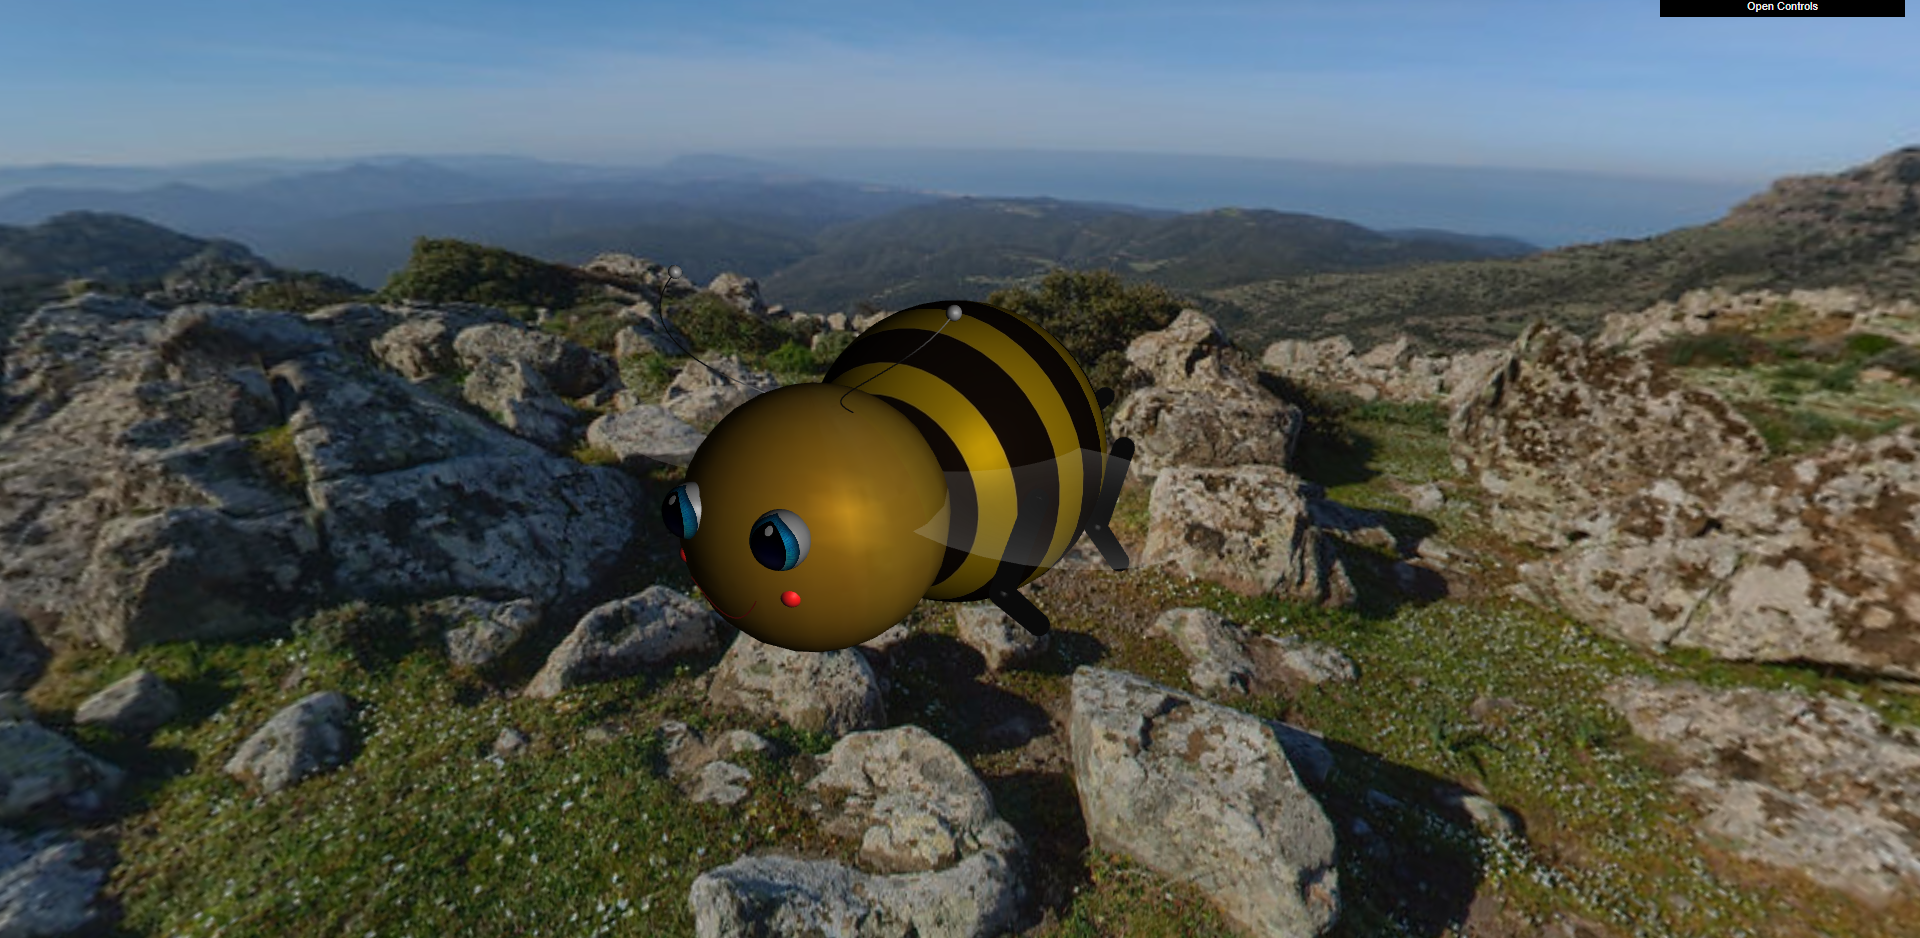
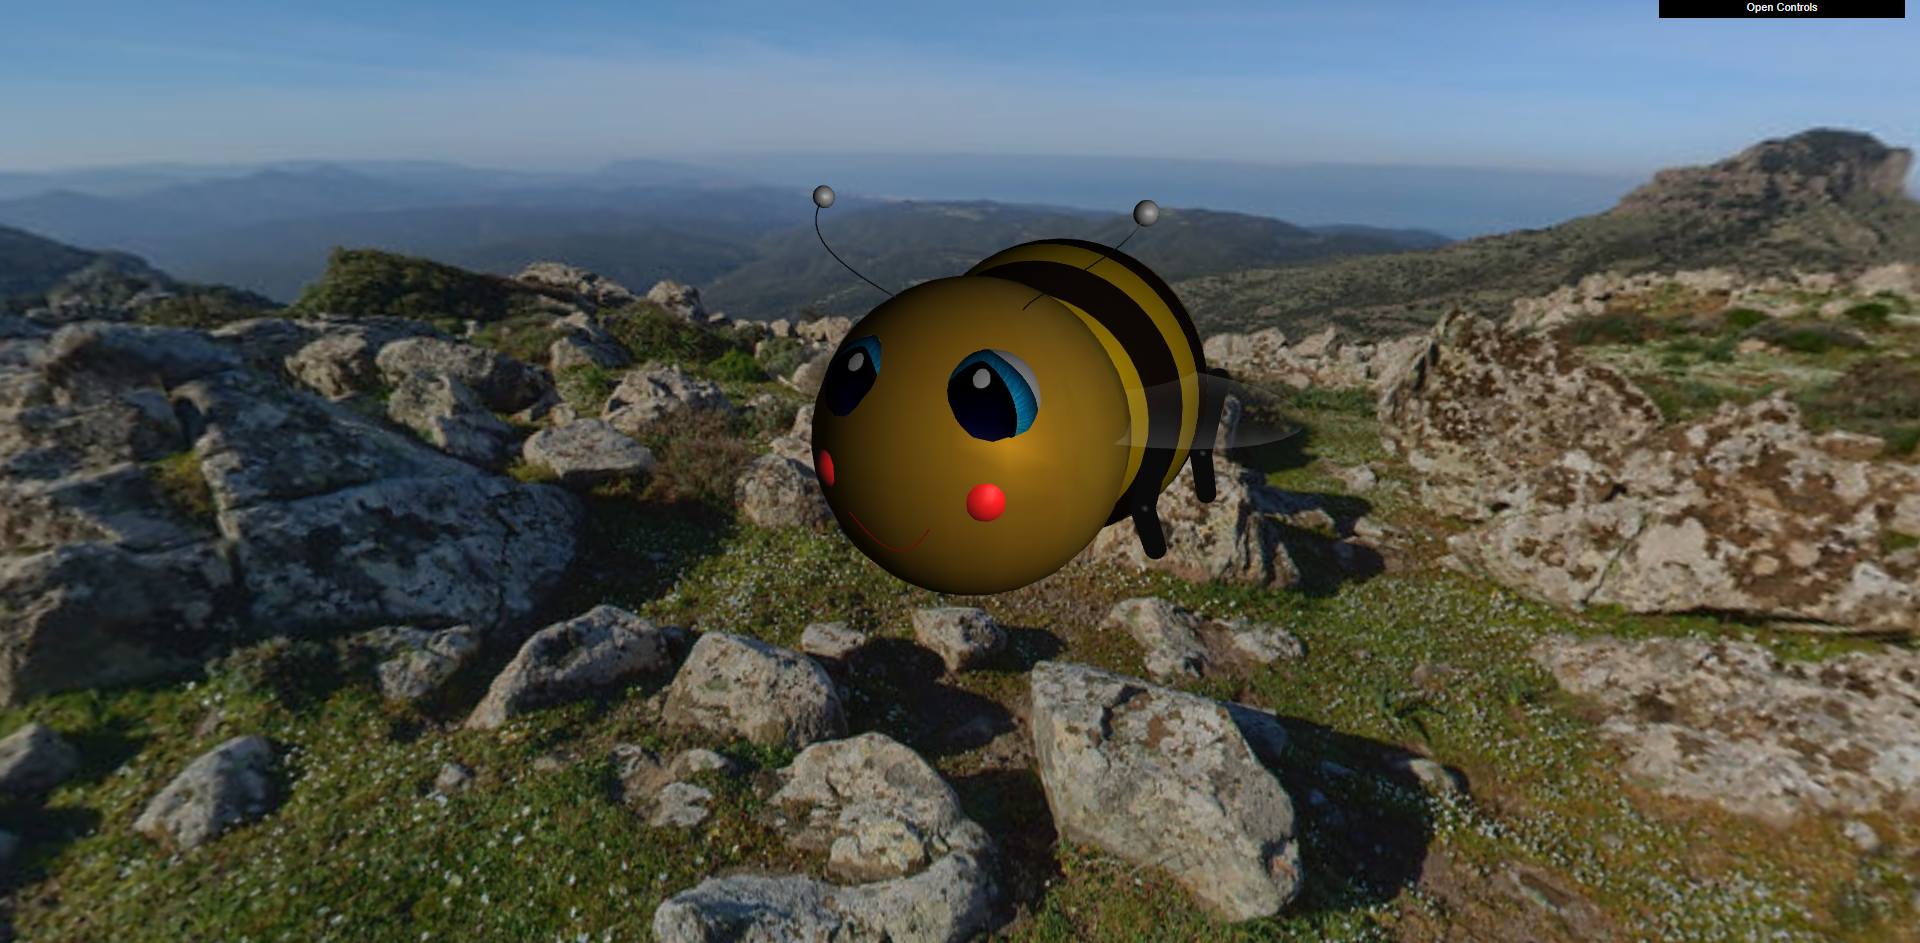
Bee wings and oscilation animation done. Bee modification

diff --git a/project/MyBee.js b/project/MyBee.js
@@ -21,11 +21,14 @@ export class MyBee extends CGFobject {
         this.beeArm2 = new MyBeeArm(this.scene);
         this.beeArm3 = new MyBeeArm(this.scene);
         this.beeArm4 = new MyBeeArm(this.scene);
+        this.oscilatingMove = 0;
+        this.wingAngle = 0;
+        this.time = 1000000;
     }
 
-    display(){
+    display() {
         this.scene.pushMatrix();
-        this.scene.translate(0, -1, -1);
+        this.scene.translate(0, -1, this.oscilatingMove-1);
         this.scene.rotate(-Math.PI / 2, 1, 0, 0);
         this.head.display();
         this.scene.popMatrix();
@@ -34,9 +37,8 @@ export class MyBee extends CGFobject {
         bobyAppearance.setTexture(this.bobyTexture);
         bobyAppearance.apply();
 
-
         this.scene.pushMatrix();
-        this.scene.translate(0, -11, 0);
+        this.scene.translate(0, -11, this.oscilatingMove);
         this.boby.display();
         this.scene.popMatrix();
 
@@ -52,7 +54,7 @@ export class MyBee extends CGFobject {
         ]
         
         this.scene.pushMatrix();
-        this.scene.translate(0, -17, 0);
+        this.scene.translate(0, -17, this.oscilatingMove);
         this.scene.multMatrix(rotecone);
         this.cone.display();
         this.scene.popMatrix();
@@ -68,49 +70,49 @@ export class MyBee extends CGFobject {
         this.scene.setDiffuse(0.0, 0.0, 0.0, 1.0);
         this.scene.pushMatrix();
         this.scene.multMatrix(rotLeg);
-        this.scene.translate(3, 0, 15);
+        this.scene.translate(3, this.oscilatingMove, 15);
         this.leg.display();
         this.scene.popMatrix();
         
         this.scene.pushMatrix();
         this.scene.multMatrix(rotLeg);
-        this.scene.translate(-3, 0, 15);
+        this.scene.translate(-3, this.oscilatingMove, 15);
         this.leg.display();
         this.scene.popMatrix();
 
         this.scene.pushMatrix();
-        this.scene.translate(3, -22, 0);
+        this.scene.translate(3, -22, this.oscilatingMove);
         this.foot.display();
         this.scene.popMatrix();
 
         this.scene.pushMatrix();
-        this.scene.translate(-3, -22, 0);
+        this.scene.translate(-3, -22, this.oscilatingMove);
         this.foot.display();
         this.scene.popMatrix();
 
         this.scene.pushMatrix();
-        this.scene.translate(-6, -7, 14);
+        this.scene.translate(-6, -7, this.oscilatingMove+14);
         this.scene.rotate(Math.PI / 2, 0, 1, 0);
         this.scene.rotate(Math.PI / 4, 0, 0, 1);
         this.beeArm1.display();
         this.scene.popMatrix();
 
         this.scene.pushMatrix();
-        this.scene.translate(6, -7, 14);
+        this.scene.translate(6, -7, this.oscilatingMove+14);
         this.scene.rotate(Math.PI / 2, 0, 1, 0);
         this.scene.rotate(Math.PI / 4, 0, 0, 1);
         this.beeArm2.display();
         this.scene.popMatrix();
 
         this.scene.pushMatrix();
-        this.scene.translate(-7, -14, 14);
+        this.scene.translate(-7, -14, this.oscilatingMove+14);
         this.scene.rotate(Math.PI / 2, 0, 1, 0);
         this.scene.rotate(Math.PI / 4, 0, 0, 1);
         this.beeArm3.display();
         this.scene.popMatrix();
 
         this.scene.pushMatrix();
-        this.scene.translate(7, -14, 14);
+        this.scene.translate(7, -14, this.oscilatingMove+14);
         this.scene.rotate(Math.PI / 2, 0, 1, 0);
         this.scene.rotate(Math.PI / 4, 0, 0, 1);
         this.beeArm4.display();
@@ -127,15 +129,37 @@ export class MyBee extends CGFobject {
 
         this.scene.pushMatrix();
         this.scene.setShininess(1.0);
-        this.scene.translate(7, -5, -2);
+        this.scene.translate(5, -5, this.oscilatingMove-2);
+        this.scene.rotate(this.wingAngle, 0, 1, 0);
         this.scene.scale(1.3, 1, 1);
         this.wing1.display();
         this.scene.popMatrix();
 
         this.scene.pushMatrix();
-        this.scene.translate(-7, -5, -2);
+        this.scene.translate(-5, -5, this.oscilatingMove-2);
+        this.scene.rotate(-this.wingAngle, 0, 1, 0);
         this.scene.scale(1.3, 1, 1);
         this.wing2.display();
         this.scene.popMatrix();
     }
+
+    updateBeeMovement(t) {
+        if (!this.startTime) {
+            this.startTime = t;
+        }
+    
+        let elapsedTime = t - this.startTime;
+    
+        let amplitude = 5; 
+        let frequency = 0.5;
+    
+        this.oscilatingMove = amplitude * Math.sin(2 * Math.PI * frequency * (elapsedTime / 1000));
+    
+        // Update the wing angle (if needed)
+        this.wingAngle = Math.sin(t * 0.05);
+    
+        console.log("New Y position:", this.oscilatingMove);
+        console.log("New wing angle:", this.wingAngle);
+    }
+    
 }

diff --git a/project/MyBeeHead.js b/project/MyBeeHead.js
@@ -6,18 +6,18 @@ import { MySmile } from "./MySmile.js";
 export class MyBeeHead extends CGFobject {
     constructor(scene){
         super(scene);
-        this.head = new MySphere(this.scene, 5, 20, 20);
+        this.head = new MySphere(this.scene, 6, 20, 20);
         this.headTexture = new CGFtexture(this.scene, 'images/bee/head.png');
-        this.eye1 = new MySphere(this.scene, 1, 20, 20);
-        this.eye2 = new MySphere(this.scene, 1, 20, 20);
+        this.eye1 = new MySphere(this.scene, 2, 20, 20);
+        this.eye2 = new MySphere(this.scene, 2, 20, 20);
         this.eyeTexture = new CGFtexture(this.scene, 'images/bee/eye.png');
         this.antenna1 = new MyAntenna(this.scene, 2, 20);
         this.antenna2 = new MyAntenna(this.scene, 2, 20);
-        this.antennaSphere1 = new MySphere(this.scene, 0.25, 20, 20);
-        this.antennaSphere2 = new MySphere(this.scene, 0.25, 20, 20);
+        this.antennaSphere1 = new MySphere(this.scene, 0.4, 20, 20);
+        this.antennaSphere2 = new MySphere(this.scene, 0.4, 20, 20);
         this.smile = new MySmile(this.scene, 5, 20);
-        this.smileSphere1 = new MySphere(this.scene, 0.4, 20, 20);
-        this.smileSphere2 = new MySphere(this.scene, 0.4, 20, 20);
+        this.smileSphere1 = new MySphere(this.scene, 1, 20, 20);
+        this.smileSphere2 = new MySphere(this.scene, 1, 20, 20);
     }
     display(){
         let headAppearance = new CGFappearance(this.scene);
@@ -54,13 +54,13 @@ export class MyBeeHead extends CGFobject {
         ]
 
         this.scene.pushMatrix();
-        this.scene.translate(-2, 1.5, 4.1);
+        this.scene.translate(-2, 2.5, 3.1);
         this.scene.multMatrix(roteye1);
         this.eye1.display();
         this.scene.popMatrix();
 
         this.scene.pushMatrix();
-        this.scene.translate(2, 1.5, 4.1);
+        this.scene.translate(2, 2.5, 3.1);
         this.scene.multMatrix(roteye2);
         this.eye2.display();
         this.scene.popMatrix();
@@ -93,21 +93,21 @@ export class MyBeeHead extends CGFobject {
         this.scene.setDiffuse(0.7, 0, 0, 1.0);
         this.scene.pushMatrix();
         this.scene.scale(5, 3.5, 5);
-        this.scene.translate(0.25, -0.2, 0.95);
+        this.scene.translate(0.25, -0.25, 1.2);
         this.scene.multMatrix(rotsmile);
         this.smile.display();
         this.scene.popMatrix();
 
         this.scene.setDiffuse(1, 0.1, 0.1, 1.0);
         this.scene.pushMatrix();
-        this.scene.translate(2.25, -0.5, 4.1);
+        this.scene.translate(2.5, 0, 4.5);
         this.scene.multMatrix(rotsmile);
         this.smileSphere1.display();
         this.scene.popMatrix();
 
         this.scene.setDiffuse(1, 0.1, 0.1, 1.0);
         this.scene.pushMatrix();
-        this.scene.translate(-2.75, -0.5, 3.8);
+        this.scene.translate(-3, 0, 4.25);
         this.scene.multMatrix(rotsmile);
         this.smileSphere2.display();
         this.scene.popMatrix();

diff --git a/project/MyScene.js b/project/MyScene.js
@@ -13,7 +13,6 @@ import { MyBeeHead } from "./MyBeeHead.js";
 import { MyBee } from "./MyBee.js";
 import { MyPolen } from "./MyPolen.js";
 
-
 /**
  * MyScene
  * @constructor
@@ -159,6 +158,20 @@ export class MyScene extends CGFscene {
     this.flower = new MyFlower(this, this.numPetals, this.radiusPetals, this.radiusCenter, this.radiusStem, this.heightStem, 
       this.customMaterialValues['Color Petals'], this.customMaterialValues['Color Center'], this.customMaterialValues['Color Stem'], this.customMaterialValues['Color Leaves']);
     this.garden = new MyGarden(this, this.gardenRows, this.gardenCols);
+
+    this.startTime = Date.now();
+    this.startRenderingLoop();
+  }
+
+  startRenderingLoop() {
+   
+    const renderLoop = () => {
+
+        this.display();
+
+        requestAnimationFrame(renderLoop);
+    };
+    renderLoop();
   }
 
   initLights() {
@@ -240,6 +253,8 @@ export class MyScene extends CGFscene {
 
     //this.polen.display();
 
+    let time = Date.now();
+ 
     if (this.displayRocks){
       this.rockSet.display();
     }  
@@ -248,8 +263,10 @@ export class MyScene extends CGFscene {
       this.panorama.display();
     }    
 
-    if (this.displayBee){
+    if (this.displayBee) {
+      this.updateBee(time);
       this.pushMatrix();
+      //this.scale(0.2, 0.2, 0.2);
       this.rotate(Math.PI / 2, 1, 0, 0);
       this.bee.display();
       this.popMatrix();
@@ -265,4 +282,20 @@ export class MyScene extends CGFscene {
     
     // ---- END Primitive drawing section
   }
+
+  updateBee(t){
+    this.bee.updateBeeMovement(t);
+  }
+  /*
+  update(t) {
+    let deltaTime = t - this.time;
+    this.time = t;
+
+    this.beeVerticalDisplacement = 1 * deltaTime;
+    this.wingAngle = Math.sin(t * 0.01);
+
+    console.log("New Y position:", this.beeVerticalDisplacement);
+    console.log("New wing angle:", this.wingAngle);
+ }
+ */
 }

diff --git a/project/animations/MyVerticalAnimation.js b/project/animations/MyVerticalAnimation.js
@@ -1,0 +1,5 @@
+export class MyAnimation {
+    constructor(initValue, endValue, duration) {
+
+    }
+}
